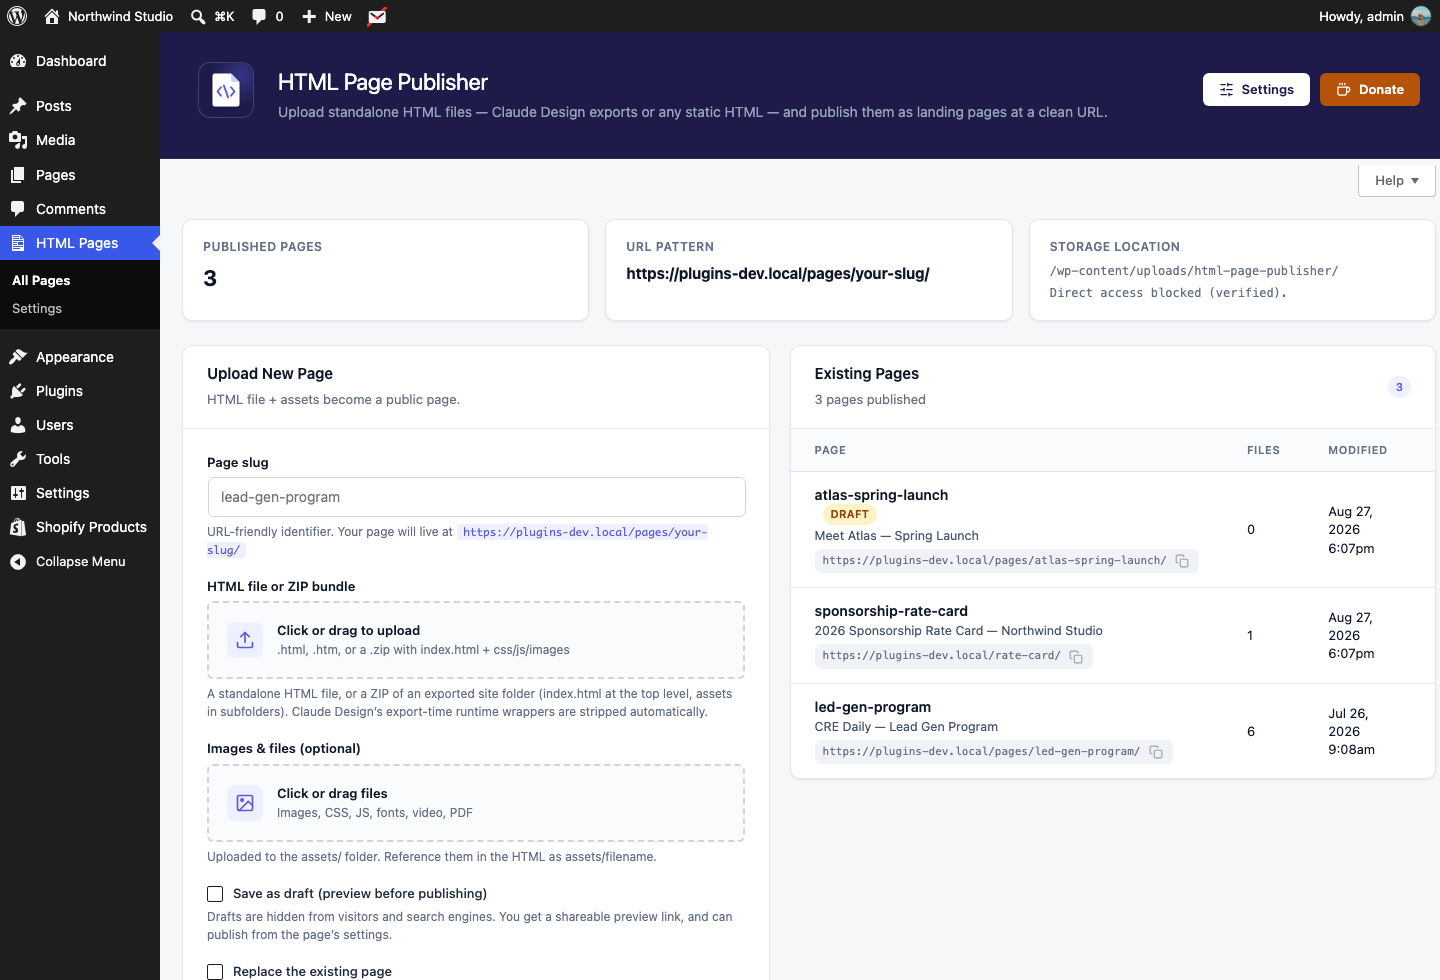
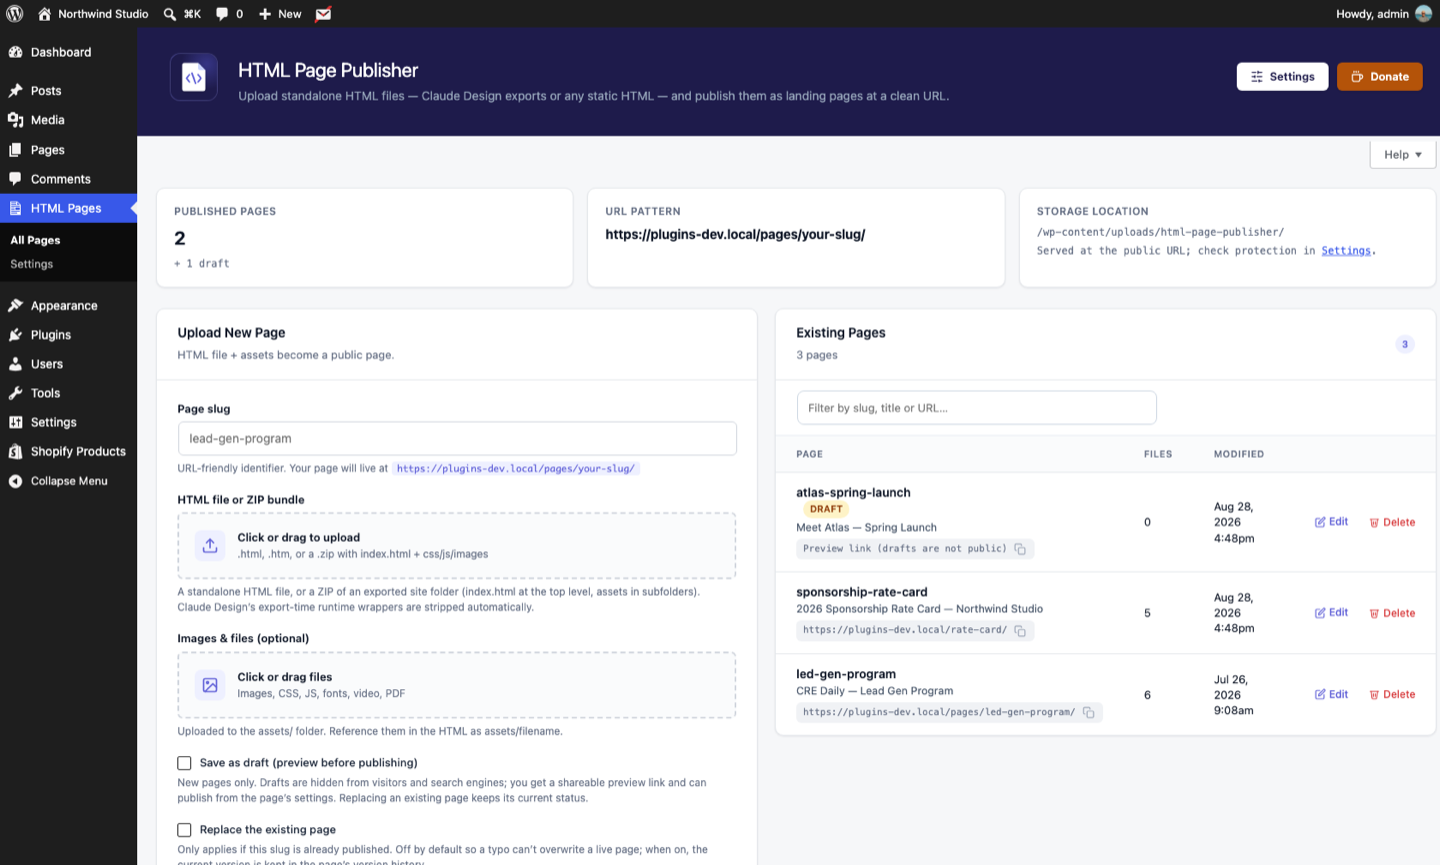
fix: truncate long URLs in the pages list and refresh the wp.org screenshots
- .htmlpp-url-pill__text had text-overflow:ellipsis without white-space:nowrap,
  so it never truncated; a draft's preview URL then widened the table past its
  container and pushed the Files/Modified columns out of view.
- The list now shows a 'Preview link' label for drafts instead of the URL
  itself: the copy button already carries it, and a preview token is a secret
  that does not belong in a table (or in a screen share).
- Screenshots 1 and 5 were captured before the 1.5.0 UI (published-vs-draft
  count, filter box, 'Search engines & snippets'); re-captured and normalised
  all five to the same width.

diff --git a/assets/css/admin.css b/assets/css/admin.css
@@ -642,6 +642,8 @@ body.htmlpp-active.htmlpp-meta-ready #screen-meta-links {
 
 .htmlpp-url-pill__text {
 	overflow: hidden;
+	/* text-overflow only applies to non-wrapping text. */
+	white-space: nowrap;
 	text-overflow: ellipsis;
 	min-width: 0;
 	flex: 1 1 auto;

diff --git a/views/admin-upload.php b/views/admin-upload.php
@@ -344,12 +344,10 @@ foreach ( $pages as $htmlpp_p ) {
 										<span class="htmlpp-url-pill" title="<?php echo esc_attr( $htmlpp_view_url ); ?>">
 											<span class="htmlpp-url-pill__text">
 												<?php
+												// A draft's preview URL carries a secret token, so the
+												// list shows a label and the button copies the URL.
 												if ( $htmlpp_is_draft ) {
-													printf(
-														/* translators: %s: preview URL */
-														esc_html__( 'Preview link: %s', 'html-page-publisher' ),
-														esc_html( $htmlpp_view_url )
-													);
+													esc_html_e( 'Preview link (drafts are not public)', 'html-page-publisher' );
 												} else {
 													echo esc_html( $htmlpp_page['url'] );
 												}
